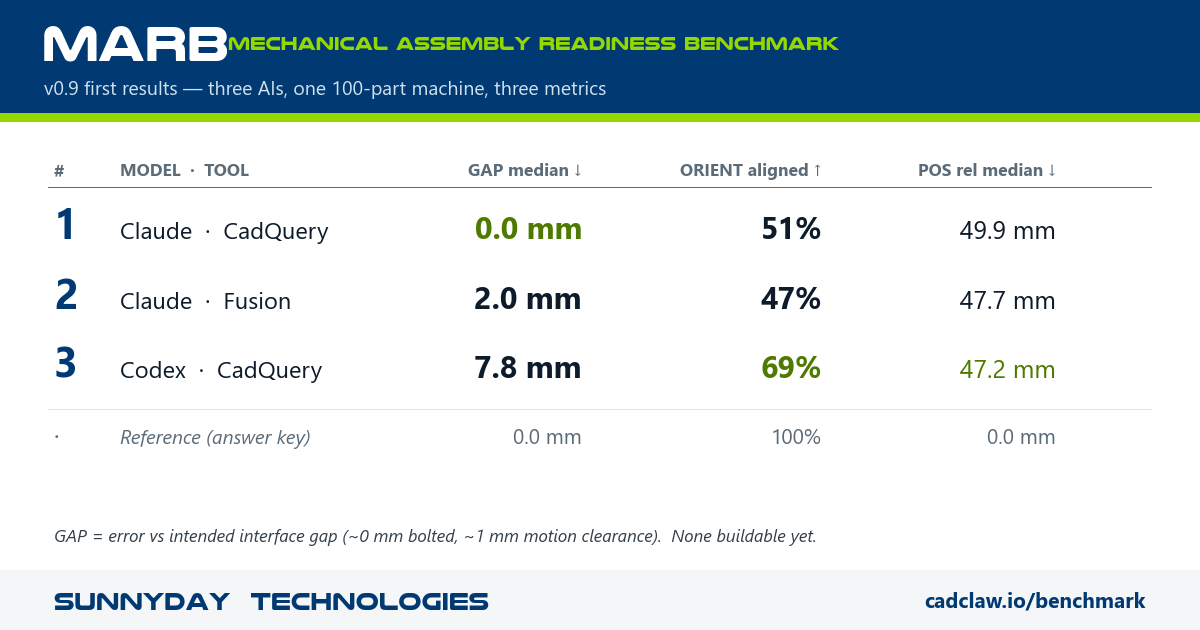
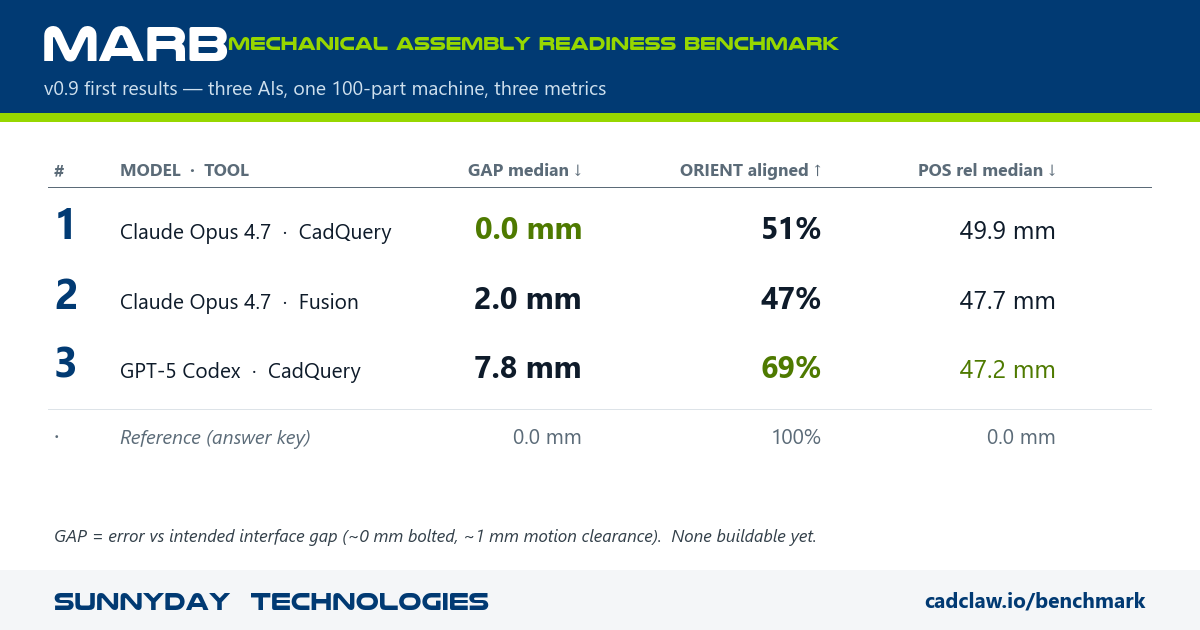
Add model versions across surfaces (Claude Opus 4.7, GPT-5 Codex) — ready for 4.8 row

Changed region(s): [[0.0925, 0.4524, 0.3083, 0.5127], [0.0925, 0.3619, 0.3392, 0.3921], [0.0925, 0.573, 0.3083, 0.6032]]

diff --git a/docs/benchmark/first-results/index.html b/docs/benchmark/first-results/index.html
@@ -109,9 +109,9 @@
     <thead><tr><th>#</th><th>Driver</th><th>GAP median ↓</th><th>ORIENT aligned ↑</th><th>POS rel median ↓</th><th>Time</th><th>Attempts</th><th>Cost (est.)</th></tr></thead>
     <tbody>
       <tr><td>—</td><td>CADCLAW reference <em>(answer key)</em></td><td><strong>0.0 mm</strong></td><td>100%</td><td>0.0 mm</td><td>resolver</td><td>—</td><td>—</td></tr>
-      <tr><td>1</td><td>Claude-CadQuery</td><td><strong>0.0 mm</strong></td><td>51%</td><td>49.9 mm</td><td>48.8 min</td><td>9</td><td>~$68</td></tr>
-      <tr><td>2</td><td>Claude-Fusion</td><td><strong>2.0 mm</strong></td><td>47%</td><td>47.7 mm</td><td>33.7 min</td><td>12</td><td>~$174</td></tr>
-      <tr><td>3</td><td>Codex-CadQuery <em>(OpenAI Codex)</em></td><td><strong>7.8 mm</strong></td><td style="color:#4e7a00;font-weight:700">69%</td><td style="color:#4e7a00;font-weight:700">47.2 mm</td><td><strong>13.0 min</strong></td><td><strong>1</strong></td><td><em>not reported</em></td></tr>
+      <tr><td>1</td><td><strong>Claude Opus 4.7</strong> · CadQuery</td><td><strong>0.0 mm</strong></td><td>51%</td><td>49.9 mm</td><td>48.8 min</td><td>9</td><td>~$68</td></tr>
+      <tr><td>2</td><td><strong>Claude Opus 4.7</strong> · Fusion</td><td><strong>2.0 mm</strong></td><td>47%</td><td>47.7 mm</td><td>33.7 min</td><td>12</td><td>~$174</td></tr>
+      <tr><td>3</td><td><strong>GPT-5 Codex</strong> · CadQuery</td><td><strong>7.8 mm</strong></td><td style="color:#4e7a00;font-weight:700">69%</td><td style="color:#4e7a00;font-weight:700">47.2 mm</td><td><strong>13.0 min</strong></td><td><strong>1</strong></td><td><em>not reported</em></td></tr>
     </tbody>
   </table>
   <p>All three got every part in and connected — a real result. None is buildable yet, but the spread shows different models leading different dimensions. <strong>Claude‑CadQuery iterated hardest</strong> (nine attempts, re‑extracting real hole patterns from the STEPs) and hit the answer key's interface gaps almost exactly — <strong>0 mm median gap error</strong> — but took 49 minutes. <strong>OpenAI Codex one‑shot the build in 13 minutes</strong> (one attempt) — fastest by 3–4×, loosest gaps (7.8 mm median), but the <strong>most rotations correct (69%)</strong>. <strong>Claude‑Fusion</strong> sat in the middle on every axis. More self‑review buys gap precision at the cost of time; Codex shows a single confident pass can still land most parts in the right rotation. (Claude token use, recovered from the run transcripts: 22M and 34M billed — roughly <strong>$68 and $174 per run</strong> at Anthropic Opus list price; Codex CLI did not expose its count, so its cost is unreported.)</p>
